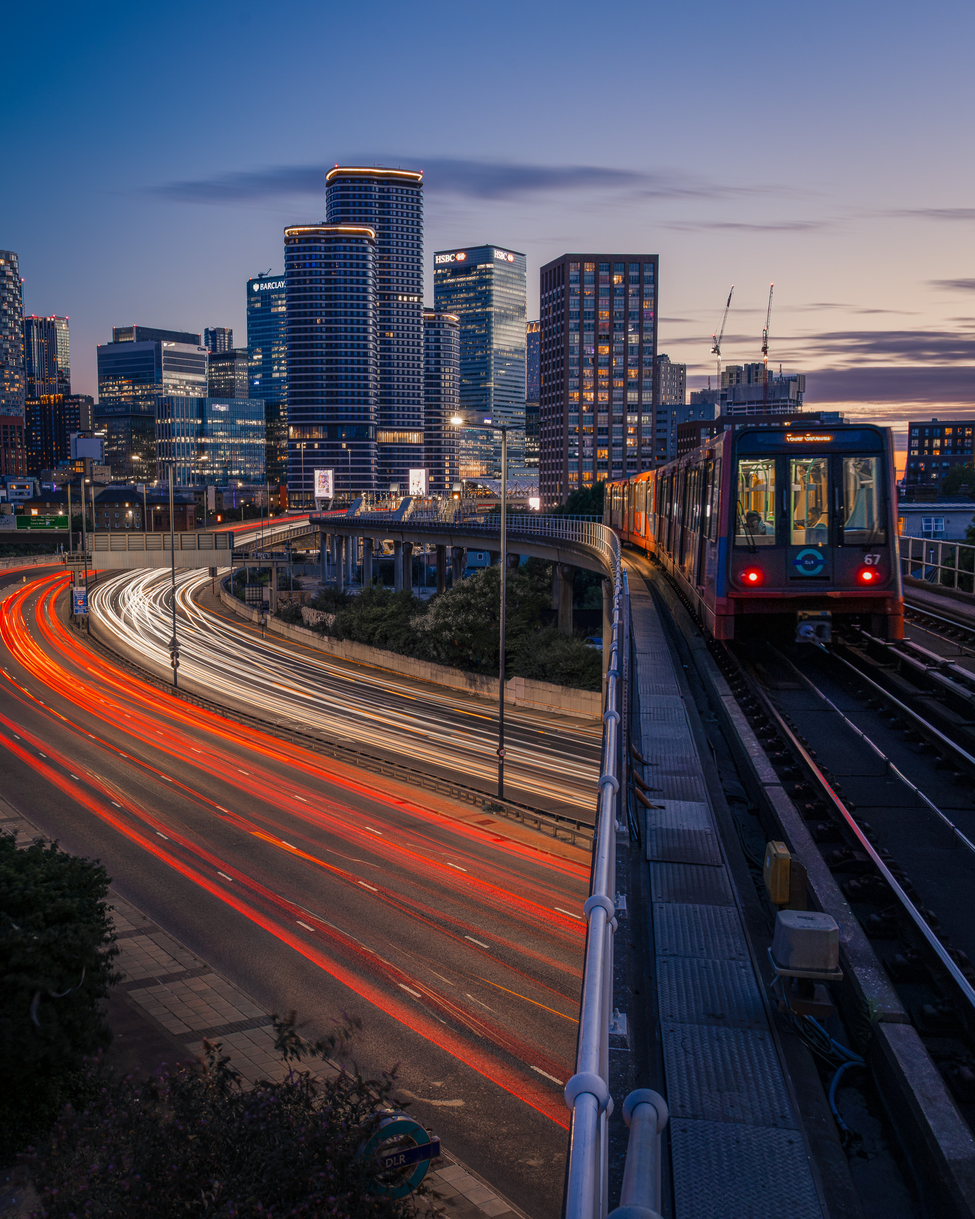
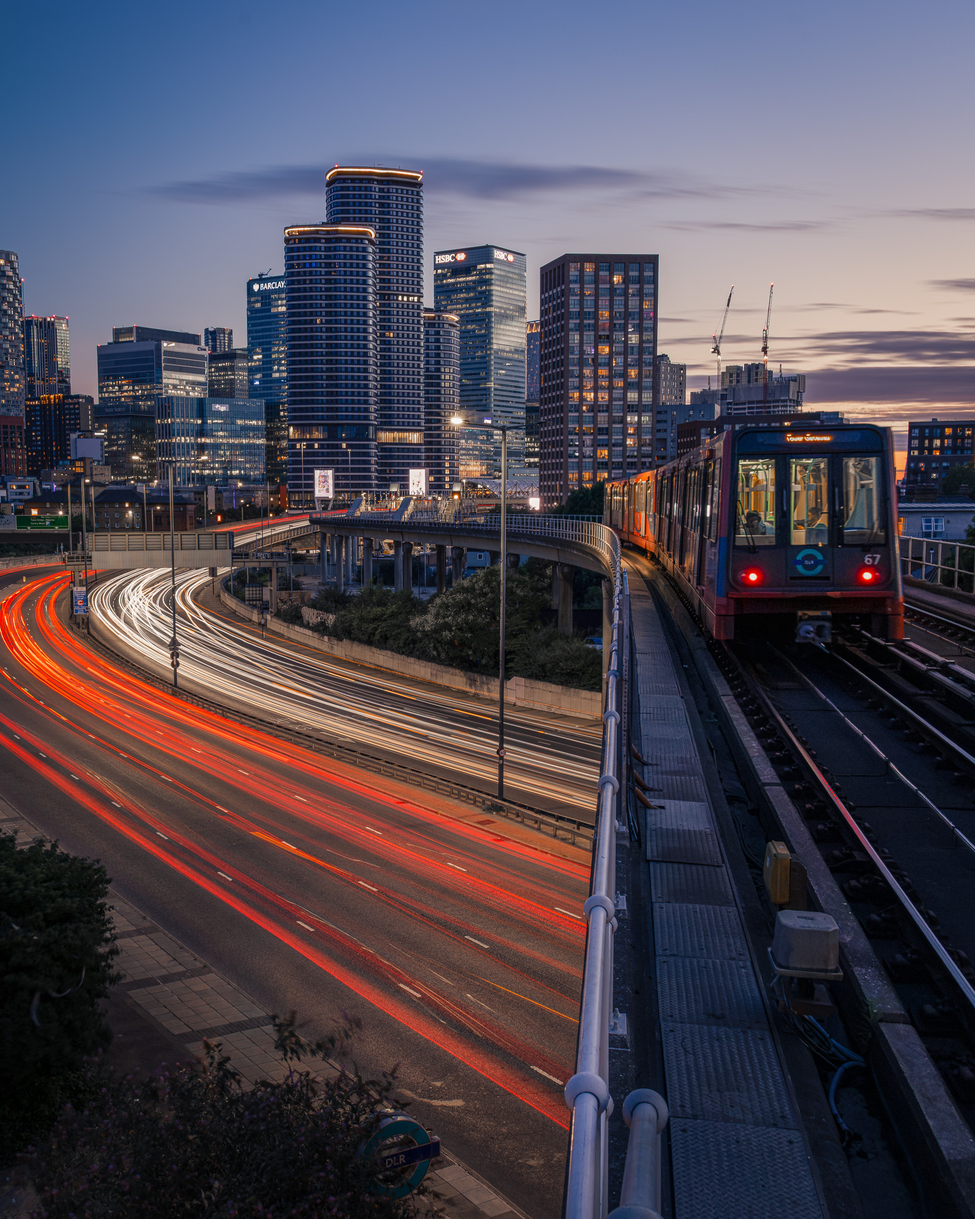
Add east india

diff --git a/app/links/LinksView.tsx b/app/links/LinksView.tsx
@@ -8,12 +8,15 @@ import LinkButton from "./LinkButton";
 
 const SocialIcon = dynamic(
   () => import("react-social-icons").then((module) => module.SocialIcon),
-  { ssr: false }
+  { ssr: false },
 );
 
 // fonts
 const bebasNeue = Bebas_Neue({ subsets: ["latin"], weight: "400" });
-const manrope = Manrope({ subsets: ["latin"], weight: ["400", "500", "600", "700"] });
+const manrope = Manrope({
+  subsets: ["latin"],
+  weight: ["400", "500", "600", "700"],
+});
 
 export default function LinksView() {
   return (
